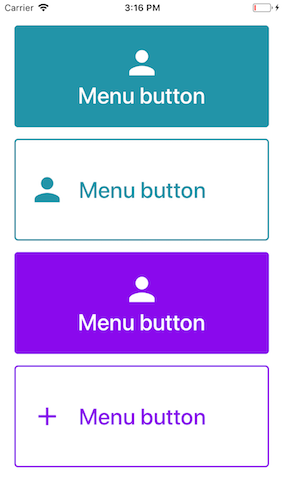
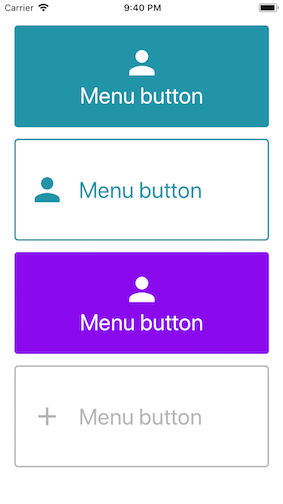
MOB-1322: added inverse prop

diff --git a/src/MenuButton/MenuButton.js b/src/MenuButton/MenuButton.js
@@ -15,11 +15,12 @@ const { width } = Dimensions.get('window');
 type Props = {
   text: string,
   onPress: () => void,
-  color?: string,
+  color: string,
   icon?: React.Component<*>,
-  setElementsHorizontal?: boolean,
-  fontSize?: number,
-  disabled?: boolean,
+  setElementsHorizontal: boolean,
+  fontSize: number,
+  disabled: boolean,
+  inverse: boolean,
   textStyle?: Object,
   style?: Object,
 };
@@ -32,11 +33,13 @@ class MenuButton extends React.Component<Props> {
     setElementsHorizontal: false,
     fontSize: 30,
     disabled: false,
+    inverse: false,
   };
 
   render() {
     const {
       disabled,
+      inverse,
       text,
       color,
       icon,
@@ -55,8 +58,8 @@ class MenuButton extends React.Component<Props> {
           styles.container,
           StyleSheet.flatten(style),
           {
-            backgroundColor: disabled ? colors.white : color,
-            borderColor: color,
+            backgroundColor: disabled || inverse ? colors.white : color,
+            borderColor: disabled ? colors.disabled : color,
           },
         ]}
       >
@@ -73,7 +76,9 @@ class MenuButton extends React.Component<Props> {
               <Icon
                 name="person"
                 size={50}
-                color={disabled ? color : colors.white}
+                color={
+                  disabled ? colors.disabled : inverse ? color : colors.white
+                }
               />
             )}
           </View>
@@ -81,7 +86,9 @@ class MenuButton extends React.Component<Props> {
             <Text
               style={[
                 {
-                  color: disabled ? color : colors.white,
+                  color: disabled
+                    ? colors.disabled
+                    : inverse ? color : colors.white,
                   fontSize,
                   fontWeight: '500',
                 },

diff --git a/docs/MenuButton.md b/docs/MenuButton.md
@@ -22,13 +22,13 @@ import { MenuButton } from 'react-native-usit-ui';
       >
         <View style={{ flex: 0.9 }}>
           <MenuButton />
-          <MenuButton setElementsHorizontal disabled />
+          <MenuButton setElementsHorizontal inverse />
           <MenuButton color="#8a09ed" />
           <MenuButton
             setElementsHorizontal
             disabled
             color="#8a09ed"
-            icon={<Icon name="add" size={40} color="#8a09ed" />}
+            icon={<Icon name="add" size={40} color="gray" />}
           />
         </View>
       </View>
@@ -44,7 +44,8 @@ import { MenuButton } from 'react-native-usit-ui';
 | color                 | `#2294A8`                                                                         |       `string`       | color of the button and icons                                                          |
 | setElementsHorizontal | `false`                                                                           |      `boolean`       | Set both the text and icon horizontal                                                  |
 | fontSize              | `30`                                                                              |       `number`       | FontSize of text                                                                       |
-| disabled              | `false`                                                                           |      `boolean`       | Invert the color of button and disable onPress on button                               |
+| disabled              | `false`                                                                           |      `boolean`       | Set the color of button to gray and disable onPress on button                          |
+| inverse               | `false`                                                                           |      `boolean`       | Invert the color of button and disable onPress on button                               |
 | icon                  | `<MaterialIcons name="person" size={50} color={disabled ? color : colors.white}>` | `React.Component<*>` | Icon in button. Can be any component like react-native-vector-icons or Image component |
 | style                 | `null`                                                                            |       `Object`       | Style of the button container                                                          |
 | textStyle             | `null`                                                                            |       `Object`       | Style of the text inside the button                                                    |
